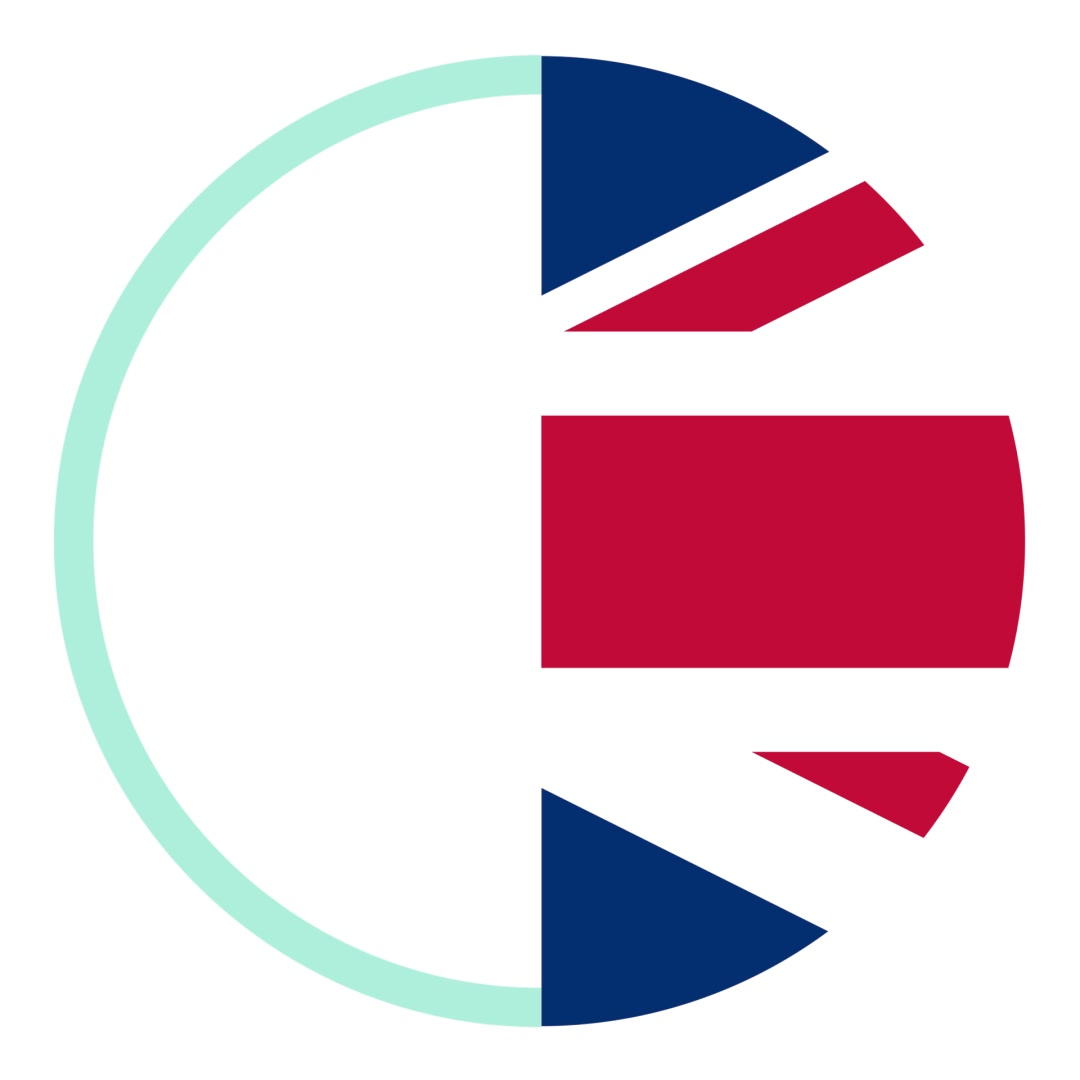
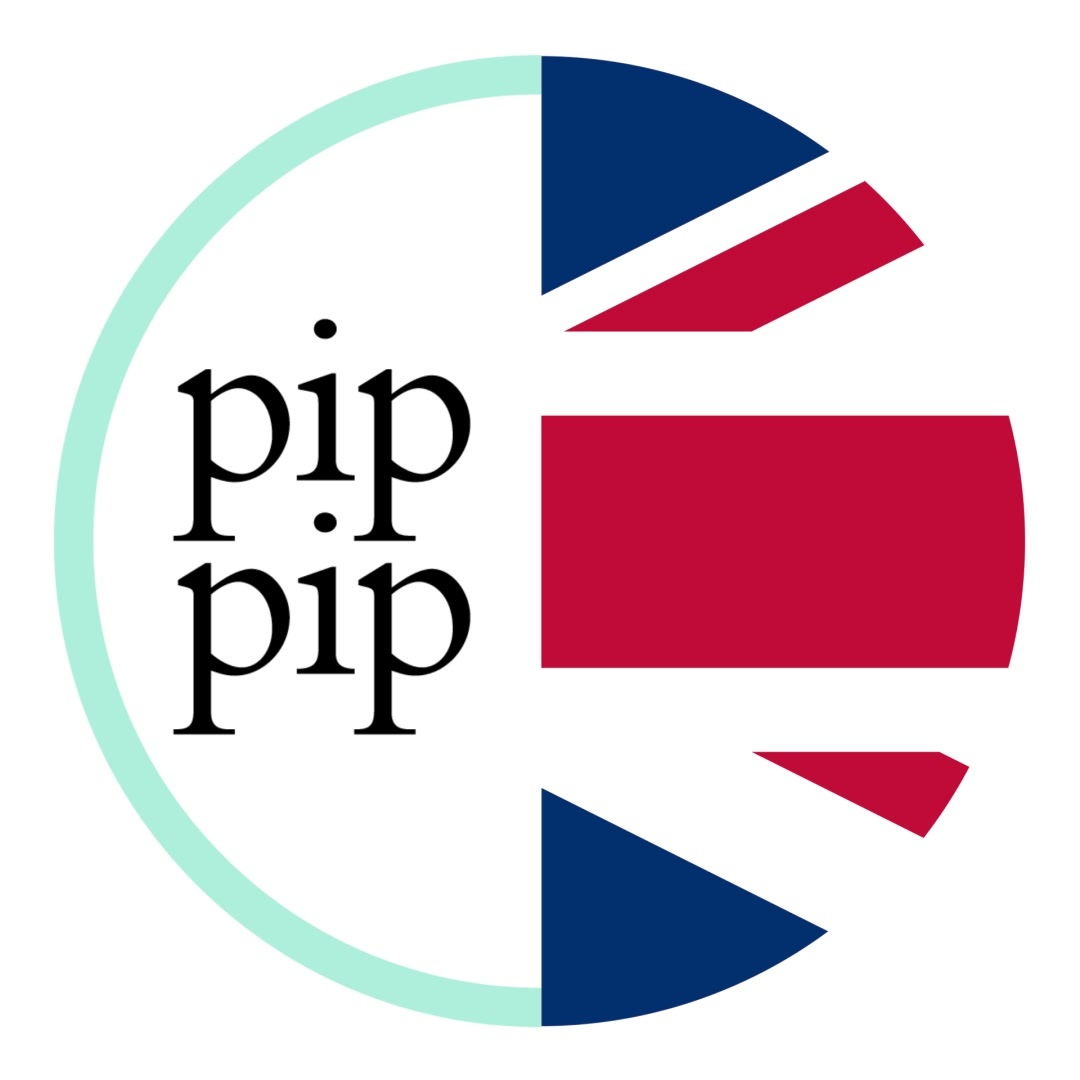
Valfri tidpunkt för videoklippens stillbild (poster:); Pip Pip vid 2,0 s

Changed region(s): [[0.1528, 0.275, 0.4583, 0.7028]]

diff --git a/src/content.config.ts b/src/content.config.ts
@@ -49,6 +49,8 @@ const video = z.object({
   title: image.shape.title,
   client: image.shape.client,
   year: image.shape.year,
+  // Tidpunkt i sekunder som stillbilden tas från (annars första bildrutan)
+  poster: z.number().min(0, 'poster: ska vara en tidpunkt i sekunder, t.ex. 2.0').optional(),
 });
 
 function idOf(item: Record<string, unknown>, order: number): string {

diff --git a/PLAN.md b/PLAN.md
@@ -56,9 +56,11 @@ Filer: `src/pages/index.astro` (sidan), `src/layouts/Base.astro` (head/meta, typ
 ## Galleri
 - Enda källan: **`src/content/galleri.yaml`**, en post per bild med `file`, `category`, `alt` och valfria `title`, `client`, `year`, `border`
 - **Ram** (`border: true`): tunn ljusgrå linje (1 px, `#DEDEDE`, samma som bakgrundsränderna) runt bilden, i gridet och i lightboxen. Ritas innanför kanten med `outline` och `outline-offset: -1px`, så storlek och gridberäkning påverkas inte; skarp även på retina. Sätts per bild, också på var och en av bilderna i ett par. Används på Bellevue-etiketterna och Pip Pip-etiketten
-- **Videoklipp** (mp4): en post med `video: <namn>.mp4` (i stället för `file:`), `category`, `alt` och valfria `title`, `client`, `year`. Klippet importeras först med `npm run import-video -- <original>` (`scripts/import-video.mjs`), som lägger tre filer i `src/assets/gallery/<kategori>/`:
+- **Videoklipp** (mp4): en post med `video: <namn>.mp4` (i stället för `file:`), `category`, `alt` och valfria `title`, `client`, `year`, `poster`. Klippet importeras först med `npm run import-video -- <original>` (`scripts/import-video.mjs`), som lägger tre filer i `src/assets/gallery/<kategori>/`:
   - `<namn>.mp4`: gridversionen, H.264, utan ljud, max 1080 px hög, under 5 MB (CRF 23; annars två pass med räknad bitrate och tak, upp till tre försök)
-  - `<namn>.poster.jpg`: stillbild från första bildrutan
+  - `<namn>.poster.jpg`: stillbild från första bildrutan, eller från tidpunkten i `poster:` (sekunder; första bildrutan vid eller efter tidpunkten). Skriptet läser `poster:` ur galleri.yaml, eller tar `--poster <sekunder>`; `--poster-only` gör bara om stillbilden
+  - `<namn>.poster.json`: bara när tidpunkten inte är 0, t.ex. `{"time":2}`. Bygget jämför den med `poster:` och stoppar med ett tydligt fel om stillbilden inte är tagen vid rätt tidpunkt
+  - Stillbilden visas i gridet innan klippet laddats, vid `prefers-reduced-motion` och när autoplay nekas, och i lightboxen innan klippet startar. Pip Pip-klippet: `poster: 2.0` (bildruta 59, 2,002 s, loggan står helt still 1,6–2,04 s)
   - `<namn>.audio.mp4`: bara om originalet har ljud; samma bild med AAC-ljud, för lightboxen
   - I gridet: tyst autoplay i loop (`muted`, `playsinline`, `preload="none"`), bara när minst 25 % av klippet syns (IntersectionObserver), pausas utanför skärmen och när lightboxen är öppen. Stillbilden visas innan klippet laddats. Följer det justerade gridet utifrån stillbildens proportioner
   - I lightboxen: ett steg som de andra (svep, pilar, tangentbord), stort med kontroller, ljud om originalet har ljud. Spelas när posten visas, pausas när man byter eller stänger. Drag som börjar på videons kontrollrad lämnas åt videon; pilarna byter post även när videon har fokus
@@ -162,6 +164,16 @@ Ramen syns i gridet och i lightboxen. Ta bort raden för att ta bort ramen.
    ```
 4. Hamnar klippet över 5 MB varnar skriptet; korta klippet eller minska upplösningen
 
+**Välja stillbild för ett videoklipp**
+Stillbilden tas annars från första bildrutan. Lägg till `poster:` med en tidpunkt i sekunder i klippets post och gör om stillbilden:
+```yaml
+- video: klipp.mp4
+  category: graphic-design
+  alt: Kort beskrivning av klippet
+  poster: 2.0
+```
+`npm run import-video -- material/gallery/<kategori>/klipp.mp4 --poster-only` (bara stillbilden, klippet kodas inte om). Glömmer du det stoppar bygget med ett felmeddelande som säger vad du ska köra.
+
 **Byta delningsbild** (bilden som visas när länken delas)
 1. Gör en ny bild i 1200×630 px och spara den som `public/og-image.png` (originalet kan ligga i `material/`)
 2. Uppdatera `imageAlt` under `meta:` i `src/content/texter.md` så att den beskriver bilden
@@ -244,3 +256,4 @@ Uppdateras vid varje ändring av sajten.
 - Ramens färg (`border: true`) ändrad från #111 till #999
 - Ramens färg ändrad till #DEDEDE
 - Ram (`border: true`) även på Pip Pip-etiketten
+- Nytt valfritt fält `poster:` för videoklipp: tidpunkt i sekunder för stillbilden. Importskriptet tar stillbilden därifrån (`--poster`, `--poster-only`) och sparar tidpunkten i `<namn>.poster.json`; bygget stoppar om den inte stämmer med galleri.yaml. Pip Pip-klippet: `poster: 2.0` (bildruta 59, 2,002 s)
